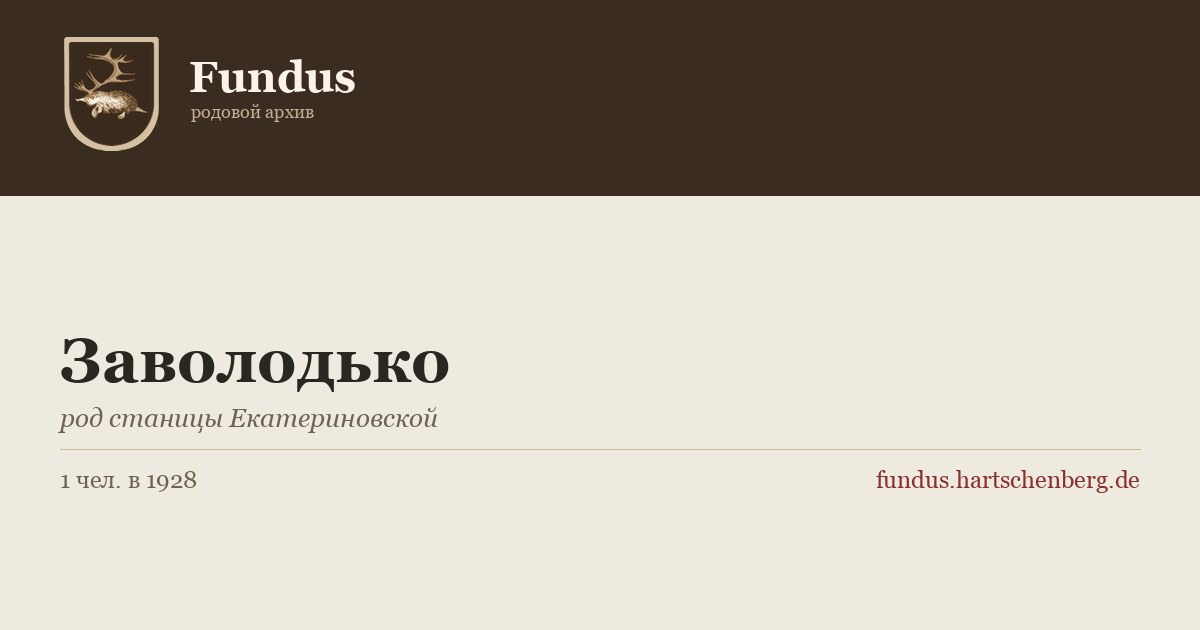
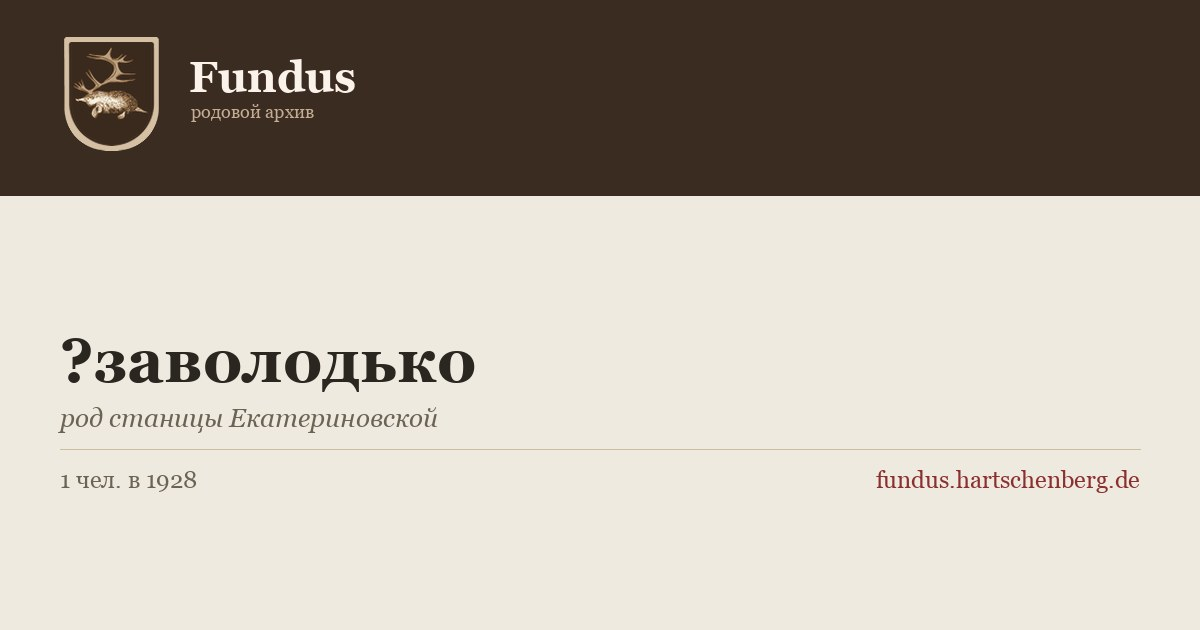
Синк зеркала 2026-08-14 21:59

Changed region(s): [[0.0308, 0.5429, 0.4008, 0.6333]]

diff --git a/ekaterinovskaya/rody/index.html b/ekaterinovskaya/rody/index.html
@@ -251,6 +251,8 @@ img.expert-seal{border-radius:50%;object-fit:cover;display:block;flex:0 0 auto}
 .e-dvorh{font-size:.95em;margin:0 0 8px;padding-bottom:4px;border-bottom:1px solid var(--rule)}
 .e-srcs{margin:8px 0 0;padding-top:6px;border-top:1px dotted var(--rule);font-size:.82em;color:var(--ink-dim)}
 .e-srcs .lb{display:block;margin:0 0 3px;font-style:italic}
+.dek-list{margin:6px 0 0;padding-left:20px}
+.dek-list li{margin:2px 0}
 .e-srcs ul{margin:0;padding:0 0 0 2px;list-style:none}
 .e-srcs li{display:block;padding:1px 0}
 .e-srcs .lb{font-style:italic}
@@ -322,12 +324,15 @@ img.expert-seal{border-radius:50%;object-fit:cover;display:block;flex:0 0 auto}
     <p class="eyebrow">Справочник родов · станица Екатериновская (Крыловская)</p>
     <h1>Справочник родов станицы Екатериновская по записям из документов за 1811–1930</h1>
     <p class="dek">Указатель родов станицы Екатериновской (с 1961 года - Крыловская,
-    Ейский отдел Кубанской области) по пяти поимённым документам: ревизская сказка
-    Екатериновского куреня 1811 года (ГАКК Ф.250 оп.2 д.206), исповедные ведомости
-    1850 года (ГАКК Ф.690 оп.1 д.182), список рабочих сапожной мастерской 1920 года
-    (ГАКК Ф.Р-1013 оп.1 д.460), список членов религиозной общины 1928 года
-    (ГАКК Ф.Р-800 оп.1 д.4) и список угнанных в Германию (ГАКК Ф.Р-897 оп.1 д.4).
-    Исповедные ведомости прочитаны частично, три листа дела из 52.</p>
+    Ейский отдел Кубанской области) по пяти поимённым документам:</p>
+    <ul class="dek dek-list">
+      <li>ревизская сказка Екатериновского куреня 1811 года (ГАКК Ф.250 оп.2 д.206)</li>
+      <li>исповедные ведомости 1850 года (ГАКК Ф.690 оп.1 д.182)</li>
+      <li>список рабочих сапожной мастерской 1920 года (ГАКК Ф.Р-1013 оп.1 д.460)</li>
+      <li>список членов религиозной общины 1928 года (ГАКК Ф.Р-800 оп.1 д.4)</li>
+      <li>список угнанных в Германию (ГАКК Ф.Р-897 оп.1 д.4). Исповедные ведомости
+      прочитаны частично, три листа дела из 52.</li>
+    </ul>
     <p class="g-legend" id="g-legend"></p>
     <div class="g-statsrow"><div class="g-stats" id="g-stats"></div></div>
   </header>

diff --git a/ekaterinovskaya/rody/r/zavolodko/index.html b/ekaterinovskaya/rody/r/zavolodko/index.html
@@ -1,19 +1,19 @@
 <!doctype html><html lang="ru"><head><meta charset="utf-8">
 <meta name="viewport" content="width=device-width,initial-scale=1">
-<title>Заволодько - справочник родов Екатериновской</title>
+<title>?заволодько - справочник родов Екатериновской</title>
 <meta name="robots" content="noindex,follow">
 <link rel="canonical" href="https://fundus.hartschenberg.de/ekaterinovskaya/rody/r/zavolodko/">
 <meta property="og:site_name" content="Fundus">
 <meta property="og:type" content="article">
 <meta property="og:url" content="https://fundus.hartschenberg.de/ekaterinovskaya/rody/r/zavolodko/">
-<meta property="og:title" content="Заволодько - род станицы Екатериновской">
-<meta property="og:description" content="Род Заволодько в справочнике станицы Екатериновской: 1 чел. в 1928.">
+<meta property="og:title" content="?заволодько - род станицы Екатериновской">
+<meta property="og:description" content="Род ?заволодько в справочнике станицы Екатериновской: 1 чел. в 1928.">
 <meta property="og:image" content="https://fundus.hartschenberg.de/ekaterinovskaya/rody/og/zavolodko.jpg">
 <meta property="og:image:width" content="1200">
 <meta property="og:locale" content="ru_RU">
 <meta name="twitter:card" content="summary_large_image">
 <meta name="twitter:image" content="https://fundus.hartschenberg.de/ekaterinovskaya/rody/og/zavolodko.jpg">
 </head><body>
-<p>Открываю род Заволодько. <a href="/ekaterinovskaya/rody/#rod:zavolodko">Перейти вручную</a>.</p>
+<p>Открываю род ?заволодько. <a href="/ekaterinovskaya/rody/#rod:zavolodko">Перейти вручную</a>.</p>
 <script>location.replace("/ekaterinovskaya/rody/#rod:zavolodko");</script>
 </body></html>
